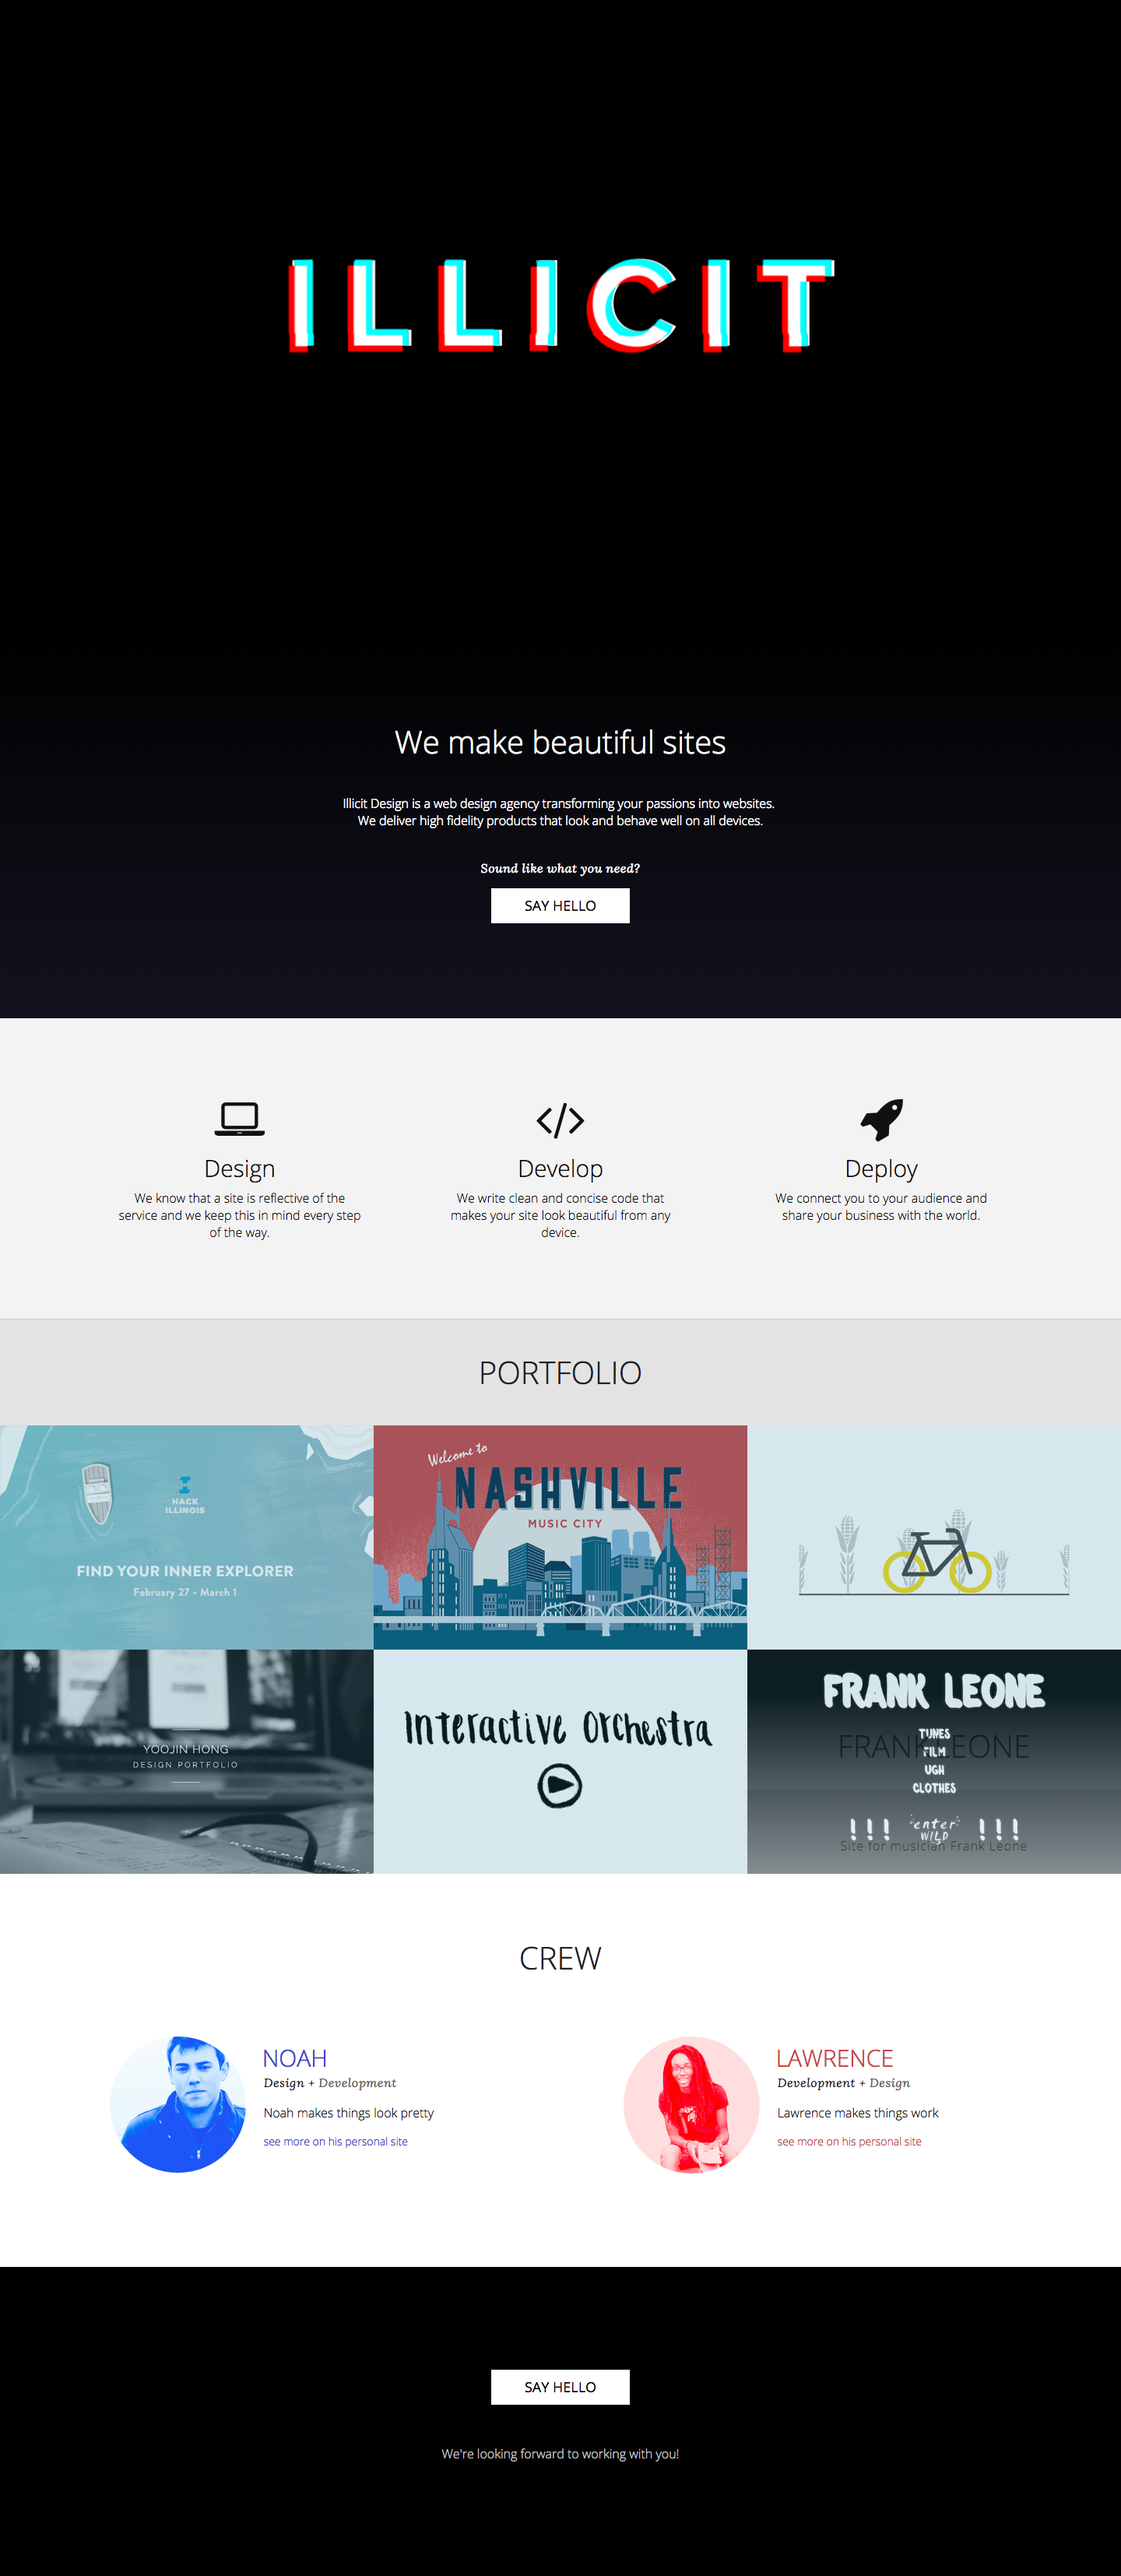
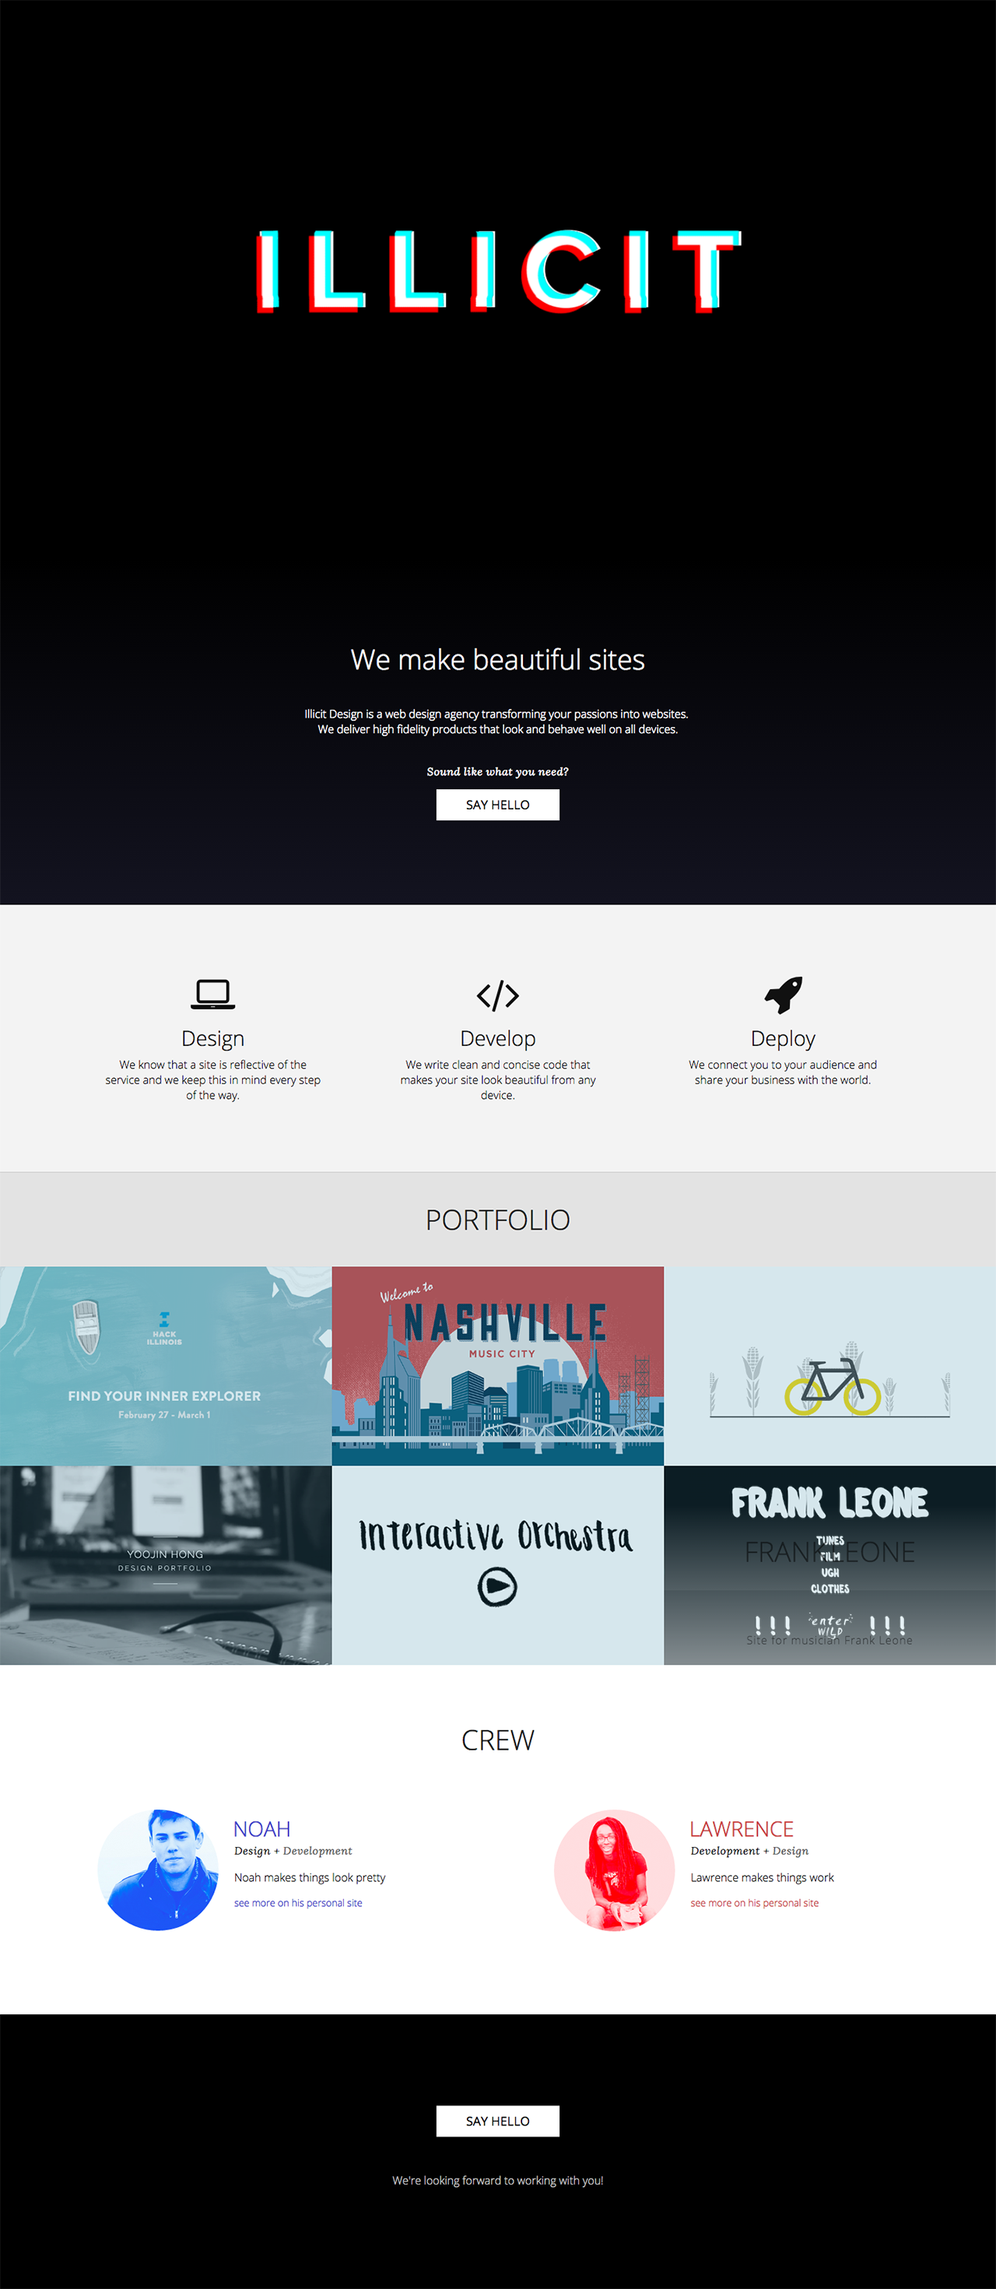
fixed links

Changed region(s): [[0.4062, 0.3094, 0.5625, 0.3404]]

diff --git a/index.html b/index.html
@@ -106,7 +106,7 @@
                                 <figcaption>
                                     <h5>Design Portfolio</h5>
                                     <p>Portfolio site built for YooJin Hong</p>
-                                    <a target="_blank" href="http://www.noahlafferty.com/yoojin-hong-design">View more</a>
+                                    <a target="_blank" href="http://www.noahlafferty.me/yoojin-hong-design">View more</a>
                                 </figcaption>           
                             </figure>
                         </li>
@@ -116,7 +116,7 @@
                                 <figcaption>
                                     <h5>Interactive<br>Orchestra</h5>
                                     <p>Educational musical web app</p>
-                                    <a target="_blank" href="http://www.noahlafferty.com/interactive-orchestra">View more</a>
+                                    <a target="_blank" href="http://www.noahlafferty.me/interactive-orchestra">View more</a>
                                 </figcaption>           
                             </figure>
                         </li>
